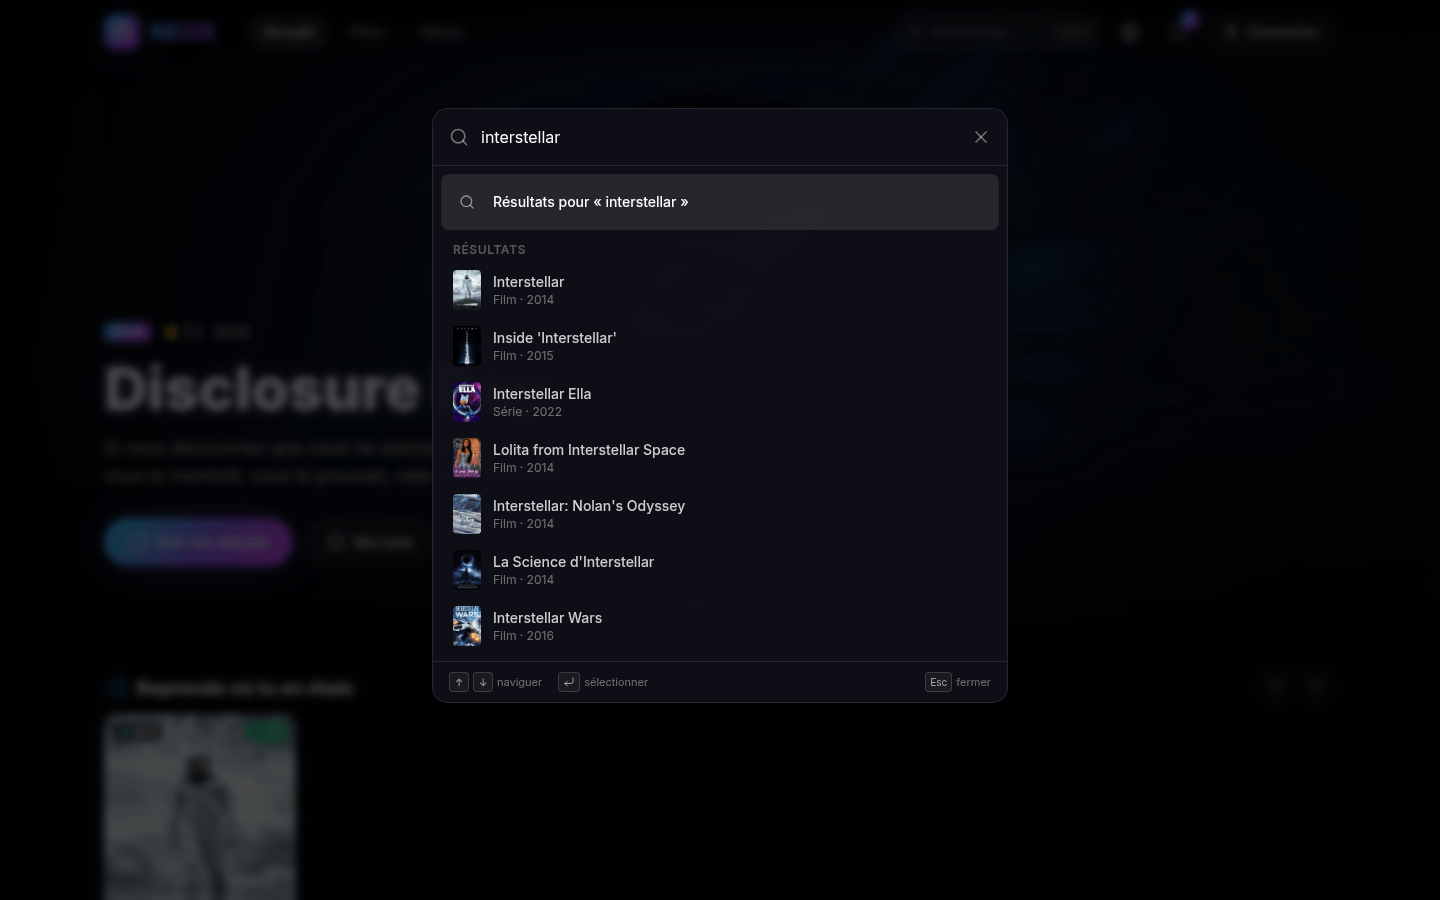
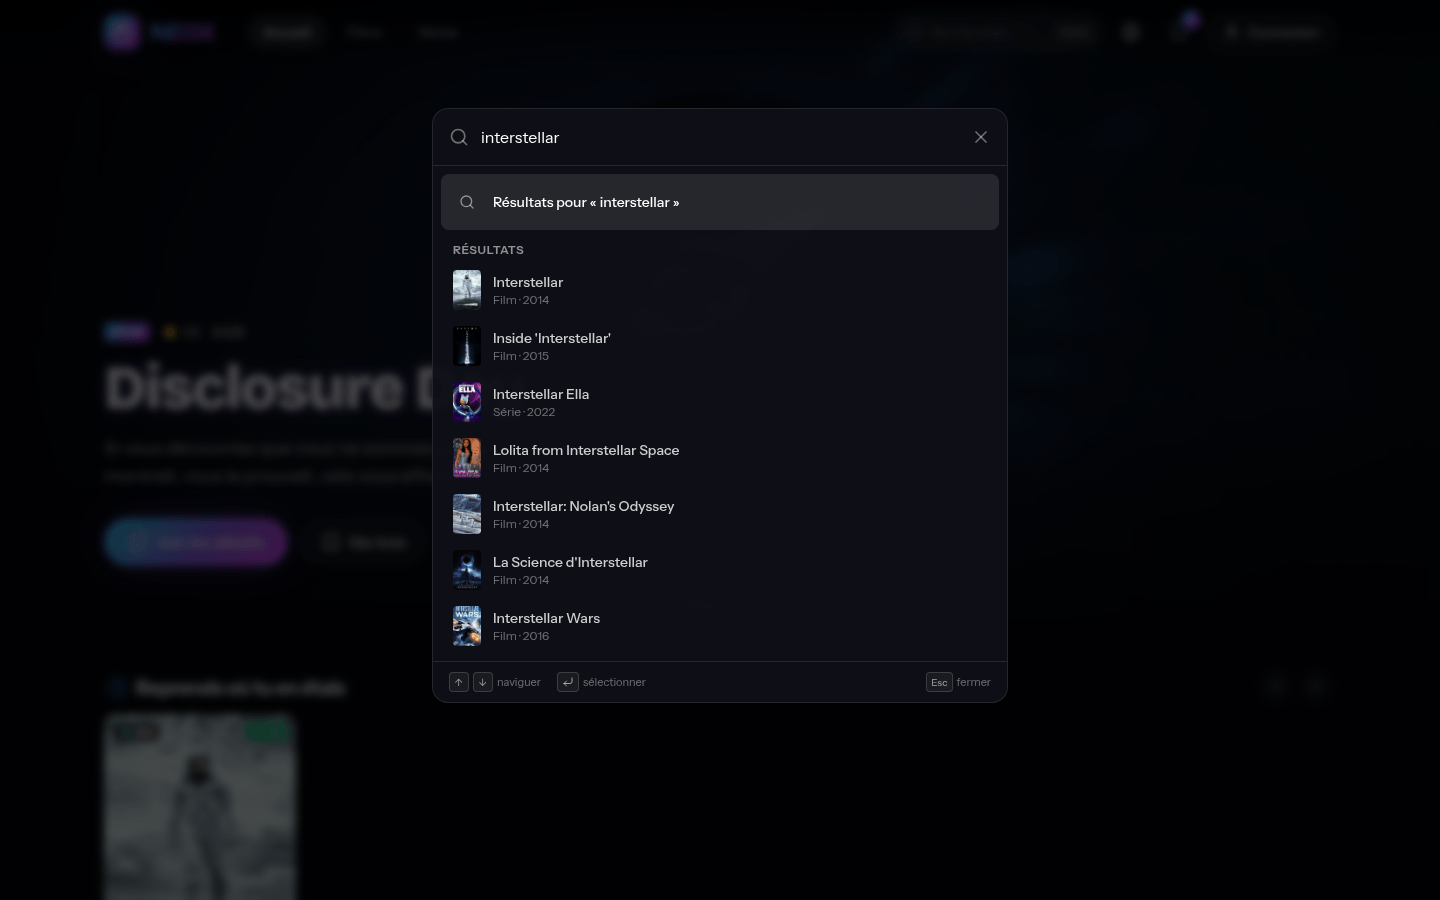
fix(ui): passe de qualité, contrastes mesurés et typographie réelle
Audit mesuré sur trois viewports (1440 / 768 / 360), puis correction de ce qui
échouait vraiment. Pas de refonte : le monde visuel (ink 950-600, dégradé de
marque cyan-violet-fuchsia, thème sombre) est conservé.

Contraste. 103 éléments sous le seuil WCAG AA, dont l'année sous chaque affiche
(text-white/40 = 3.73:1 mesuré sur ink-950, il faut 4.5:1). Les occurrences de
texte passent à /55 (6.26:1) ; celles portées par des icônes restent à /40, qui
satisfait le 3:1 du non-texte. Reste 2 « échecs » : le mot-logo en text-gradient,
dont la couleur calculée est transparent, donc non mesurable par sonde. Ancrages
vérifiés à la main : cyan 11.19:1, violet 4.77:1, fuchsia 5.85:1, tous au-dessus
du seuil.

Cible tactile. Les puces du carrousel faisaient 8x6 px, sous le plancher 24x24
de WCAG 2.5.8. La barre visuelle reste à 6 px, le bouton porte le rembourrage :
40x24. Les contrôles de barre de navigation à 36-40 px passent 2.5.8 et restent
tels quels ; les remonter à 44 casserait la densité voulue.

prefers-reduced-motion annulait toutes les transitions à 0.001ms, retour d'état
compris. Remplacé par 80 ms sur couleur, opacité, bordure et ombre, avec les
transformées et les animations coupées : moins de mouvement, pas moins de
feedback.

Typographie. Inter arrivait par un @import Google Fonts, c'est-à-dire une requête
tierce sérialisée au rendu vers un CDN qui journalise les IP, dans une app qui ne
charge pas de script d'analytics sans consentement explicite. Et le jeton
[…]

diff --git a/project/src/components/home/Hero.tsx b/project/src/components/home/Hero.tsx
@@ -79,7 +79,7 @@ export function Hero({ items }: { items: MediaItem[] }) {
               {current.year && <span>{current.year}</span>}
             </div>
 
-            <h1 className="text-4xl font-extrabold leading-tight text-white text-shadow-glow sm:text-6xl">
+            <h1 className="font-display text-4xl font-extrabold leading-[1.05] tracking-tight text-balance text-white text-shadow-glow sm:text-6xl">
               {current.title}
             </h1>
 
@@ -108,16 +108,25 @@ export function Hero({ items }: { items: MediaItem[] }) {
       </div>
 
       {items.length > 1 && (
-        <div className="absolute bottom-6 left-1/2 z-10 flex -translate-x-1/2 gap-2">
+        <div className="absolute bottom-3 left-1/2 z-10 flex -translate-x-1/2 items-center gap-1">
           {items.map((item, i) => (
+            // The bar stays 6px tall, but the button carries vertical padding so the
+            // hit area clears the 24x24 floor of WCAG 2.5.8 on a touch screen.
             <button
               key={item.id}
               onClick={() => setActive(i)}
               aria-label={t('hero.goto_slide', { n: i + 1 })}
-              className={`h-1.5 rounded-full transition-all duration-300 ${
-                i === active ? 'w-8 bg-brand-gradient' : 'w-2 bg-white/30 hover:bg-white/50'
-              }`}
-            />
+              aria-current={i === active}
+              className="group flex h-6 items-center px-1"
+            >
+              <span
+                className={`block h-1.5 rounded-full transition-all duration-300 ${
+                  i === active
+                    ? 'w-8 bg-brand-gradient'
+                    : 'w-2 bg-white/40 group-hover:bg-white/70'
+                }`}
+              />
+            </button>
           ))}
         </div>
       )}

diff --git a/project/src/components/command/CommandPalette.tsx b/project/src/components/command/CommandPalette.tsx
@@ -254,7 +254,7 @@ export function CommandPalette() {
                 );
               })()}
 
-              <p className="px-3 pb-1 pt-3 text-xs font-semibold uppercase tracking-wider text-white/30">
+              <p className="px-3 pb-1 pt-3 text-xs font-semibold uppercase tracking-wider text-white/55">
                 {loading ? t('cmd.searching') : t('cmd.results')}
               </p>
 
@@ -297,7 +297,7 @@ export function CommandPalette() {
           ) : (
             <>
               {showNavHeading && (
-                <p className="px-3 pb-1 pt-2 text-xs font-semibold uppercase tracking-wider text-white/30">
+                <p className="px-3 pb-1 pt-2 text-xs font-semibold uppercase tracking-wider text-white/55">
                   {t('cmd.nav')}
                 </p>
               )}
@@ -317,7 +317,7 @@ export function CommandPalette() {
               })}
 
               {viewed.length > 0 && (
-                <p className="px-3 pb-1 pt-3 text-xs font-semibold uppercase tracking-wider text-white/30">
+                <p className="px-3 pb-1 pt-3 text-xs font-semibold uppercase tracking-wider text-white/55">
                   {t('cmd.recent_viewed')}
                 </p>
               )}
@@ -349,7 +349,7 @@ export function CommandPalette() {
 
               {recent.length > 0 && (
                 <div className="mt-1 flex items-center justify-between px-3 pb-1 pt-3">
-                  <p className="text-xs font-semibold uppercase tracking-wider text-white/30">
+                  <p className="text-xs font-semibold uppercase tracking-wider text-white/55">
                     {t('cmd.recent')}
                   </p>
                   <button

diff --git a/project/src/index.css b/project/src/index.css
@@ -1,5 +1,3 @@
-@import url('https://fonts.googleapis.com/css2?family=Inter:wght@400;500;600;700;800;900&display=swap');
-
 @tailwind base;
 @tailwind components;
 @tailwind utilities;
@@ -9,8 +7,10 @@
     scroll-behavior: smooth;
   }
 
-  /* Respect users who ask for less motion: kill animations, transitions and
-     smooth scrolling so the UI stays calm and accessible. */
+  /* Reduced motion is not "no feedback". A blanket 0.001ms kill also removes the
+     transitions that tell you a control reacted, which leaves the UI feeling
+     broken rather than calm. So: decorative and looping animation goes, scroll
+     jumps instead of gliding, and state transitions merely get shorter. */
   @media (prefers-reduced-motion: reduce) {
     html {
       scroll-behavior: auto;
@@ -20,8 +20,17 @@
     *::after {
       animation-duration: 0.001ms !important;
       animation-iteration-count: 1 !important;
-      transition-duration: 0.001ms !important;
       scroll-behavior: auto !important;
+    }
+    /* Colour, opacity and border feedback survives, at a length that reads as
+       instant without being absent. Transforms are the part that moves, so they
+       are the part that stops. */
+    *,
+    *::before,
+    *::after {
+      transition-duration: 80ms !important;
+      transition-property: color, background-color, border-color, fill, stroke,
+        opacity, box-shadow !important;
     }
   }
 

diff --git a/project/src/components/layout/Navbar.tsx b/project/src/components/layout/Navbar.tsx
@@ -104,7 +104,7 @@ export function Navbar({ onOpenAuth }: { onOpenAuth: () => void }) {
                 onClick={() => window.dispatchEvent(new Event(OPEN_COMMAND_EVENT))}
                 aria-label={t('cmd.open')}
                 title={t('cmd.open')}
-                className="absolute right-2 top-1/2 hidden -translate-y-1/2 items-center rounded border border-white/15 bg-white/5 px-1.5 py-0.5 text-[10px] font-semibold text-white/40 transition-colors hover:text-white/80 sm:inline-flex"
+                className="absolute right-2 top-1/2 hidden -translate-y-1/2 items-center rounded border border-white/15 bg-white/5 px-1.5 py-0.5 text-[10px] font-semibold text-white/60 transition-colors hover:text-white sm:inline-flex"
               >
                 {isMac ? '⌘' : 'Ctrl'} K
               </button>
@@ -146,7 +146,7 @@ export function Navbar({ onOpenAuth }: { onOpenAuth: () => void }) {
               {menuOpen && (
                 <div className="card-surface absolute right-0 top-12 w-56 animate-scale-in p-2">
                   <div className="border-b border-white/10 px-3 py-2">
-                    <p className="text-xs text-white/40">{t('nav.logged_as')}</p>
+                    <p className="text-xs text-white/55">{t('nav.logged_as')}</p>
                     <p className="truncate text-sm font-medium text-white">{user.email}</p>
                   </div>
                   <button

diff --git a/project/tailwind.config.js b/project/tailwind.config.js
@@ -20,8 +20,14 @@ export default {
         },
       },
       fontFamily: {
-        sans: ['Inter', 'system-ui', 'sans-serif'],
-        display: ['"Clash Display"', 'Inter', 'system-ui', 'sans-serif'],
+        // Instrument Sans for the interface: narrow enough for dense metadata,
+        // with terminals that stay legible at 12px.
+        sans: ['"Instrument Sans Variable"', 'system-ui', 'sans-serif'],
+        // Bricolage Grotesque for titles. It carries an editorial voice at large
+        // sizes, which is what a catalogue of films should sound like. The
+        // previous stack named a face ("Clash Display") that was never loaded,
+        // so every `font-display` silently rendered as the body face.
+        display: ['"Bricolage Grotesque Variable"', '"Instrument Sans Variable"', 'system-ui', 'sans-serif'],
       },
       boxShadow: {
         glow: '0 0 40px -8px rgba(139, 92, 246, 0.55)',

diff --git a/project/src/components/media/WatchProviders.tsx b/project/src/components/media/WatchProviders.tsx
@@ -7,7 +7,7 @@ function ProviderGroup({ label, providers }: { label: string; providers: Provide
   if (providers.length === 0) return null;
   return (
     <div>
-      <p className="mb-2 text-xs font-semibold uppercase tracking-wider text-white/40">{label}</p>
+      <p className="mb-2 text-xs font-semibold uppercase tracking-wider text-white/55">{label}</p>
       <div className="flex flex-wrap gap-2.5">
         {providers.map((p) => (
           <div
@@ -60,7 +60,7 @@ export function WatchProviders({ providers }: { providers: Providers }) {
           <ExternalLink className="h-3.5 w-3.5" />
         </a>
       )}
-      <p className="text-xs text-white/30">{t('providers.disclaimer')}</p>
+      <p className="text-xs text-white/55">{t('providers.disclaimer')}</p>
     </div>
   );
 }

diff --git a/project/src/lib/structured-data.ts b/project/src/lib/structured-data.ts
@@ -31,7 +31,11 @@ export function isoDuration(minutes: number | null): string | null {
   if (minutes == null || !Number.isFinite(minutes) || minutes <= 0) return null;
   const h = Math.floor(minutes / 60);
   const m = Math.round(minutes % 60);
-  return `PT${h > 0 ? `${h}H` : ''}${m > 0 ? `${m}M` : ''}` || null;
+  // A sub-minute runtime rounds both components to zero. Returning "PT" then
+  // would be an invalid duration, which Google reports as an error, so an
+  // unusable value becomes an absent one.
+  if (h === 0 && m === 0) return null;
+  return `PT${h > 0 ? `${h}H` : ''}${m > 0 ? `${m}M` : ''}`;
 }
 
 /**

diff --git a/project/src/views/LibraryView.tsx b/project/src/views/LibraryView.tsx
@@ -106,7 +106,7 @@ export function LibraryView({ onOpenAuth }: { onOpenAuth: () => void }) {
     <div className="container mx-auto px-6 pb-16 pt-28">
       <div className="mb-6 flex flex-wrap items-end justify-between gap-4">
         <div>
-          <h1 className="flex items-center gap-3 text-3xl font-extrabold sm:text-4xl">
+          <h1 className="flex items-center gap-3 font-display text-3xl font-extrabold tracking-tight sm:text-4xl">
             {t('library.title')}
             {syncing && <Loader2 className="h-5 w-5 animate-spin text-brand-cyan" />}
           </h1>

diff --git a/project/src/components/layout/Footer.tsx b/project/src/components/layout/Footer.tsx
@@ -4,7 +4,7 @@ export function Footer() {
   const { t } = useT();
   return (
     <footer className="border-t border-white/10 bg-ink-950">
-      <div className="container mx-auto flex flex-col items-center gap-3 px-6 py-8 text-center text-sm text-white/40 sm:flex-row sm:justify-between sm:text-left">
+      <div className="container mx-auto flex flex-col items-center gap-3 px-6 py-8 text-center text-sm text-white/55 sm:flex-row sm:justify-between sm:text-left">
         <p>
           <span className="font-bold text-gradient">NEOX</span>, {t('footer.tagline')}
         </p>

diff --git a/project/src/main.tsx b/project/src/main.tsx
@@ -8,6 +8,10 @@ import { LibraryProvider } from './context/LibraryContext';
 import { ToastProvider } from './context/ToastContext';
 import { activeLang } from './lib/i18n';
 import { localeTag } from './lib/i18n/core';
+// Self-hosted variable faces: no third-party request at runtime, one woff2 per
+// family instead of nine static weights, and the axes stay available.
+import '@fontsource-variable/bricolage-grotesque';
+import '@fontsource-variable/instrument-sans';
 import './index.css';
 
 // Advertise the active UI language on the document. index.html ships a static

diff --git a/project/src/components/ui/ErrorBoundary.tsx b/project/src/components/ui/ErrorBoundary.tsx
@@ -42,7 +42,7 @@ export class ErrorBoundary extends Component<Props, State> {
       >
         <AlertTriangle className="h-12 w-12 text-orange-400" />
         <div>
-          <h1 className="text-2xl font-bold text-white">{t('error.title')}</h1>
+          <h1 className="font-display text-2xl font-bold tracking-tight text-white">{t('error.title')}</h1>
           <p className="mt-1 max-w-md text-sm text-white/50">{t('error.boundary_desc')}</p>
         </div>
         <button onClick={this.handleReload} className="btn-primary">

diff --git a/project/src/components/layout/Logo.tsx b/project/src/components/layout/Logo.tsx
@@ -12,7 +12,7 @@ export function Logo({ onClick }: { onClick?: () => void }) {
       <span className="flex h-9 w-9 items-center justify-center rounded-xl bg-brand-gradient shadow-glow transition-transform group-hover:scale-105">
         <Clapperboard className="h-5 w-5 text-white" />
       </span>
-      <span className="text-2xl font-extrabold tracking-tight text-gradient">NEOX</span>
+      <span className="font-display text-2xl font-extrabold tracking-tight text-gradient">NEOX</span>
     </button>
   );
 }
